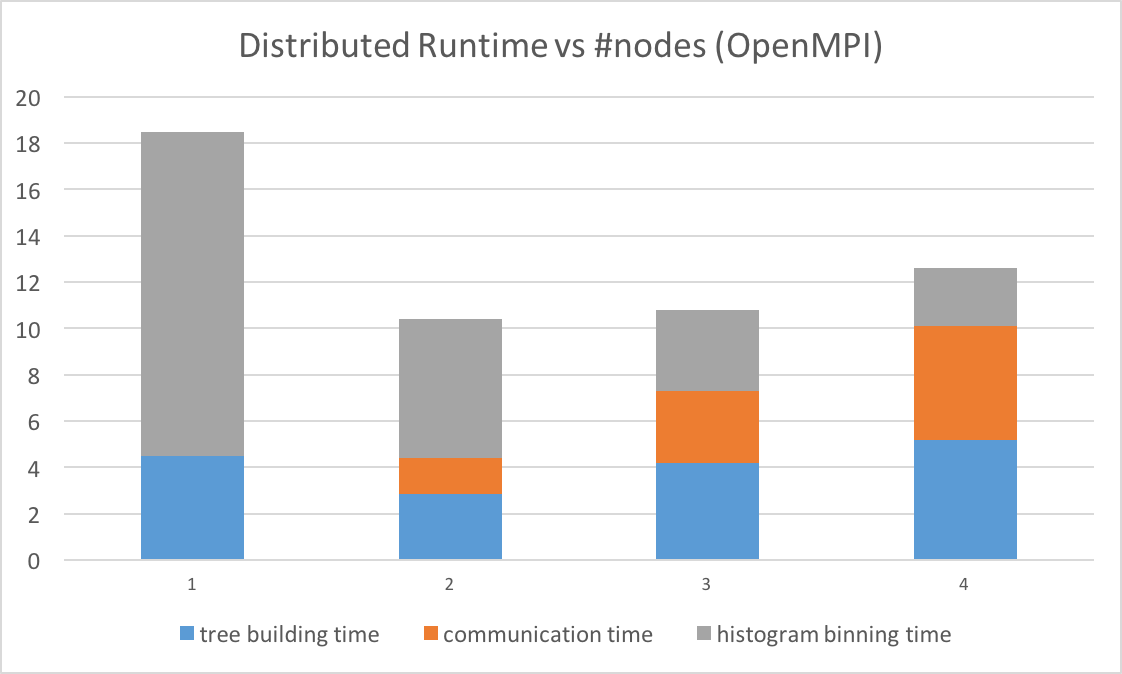
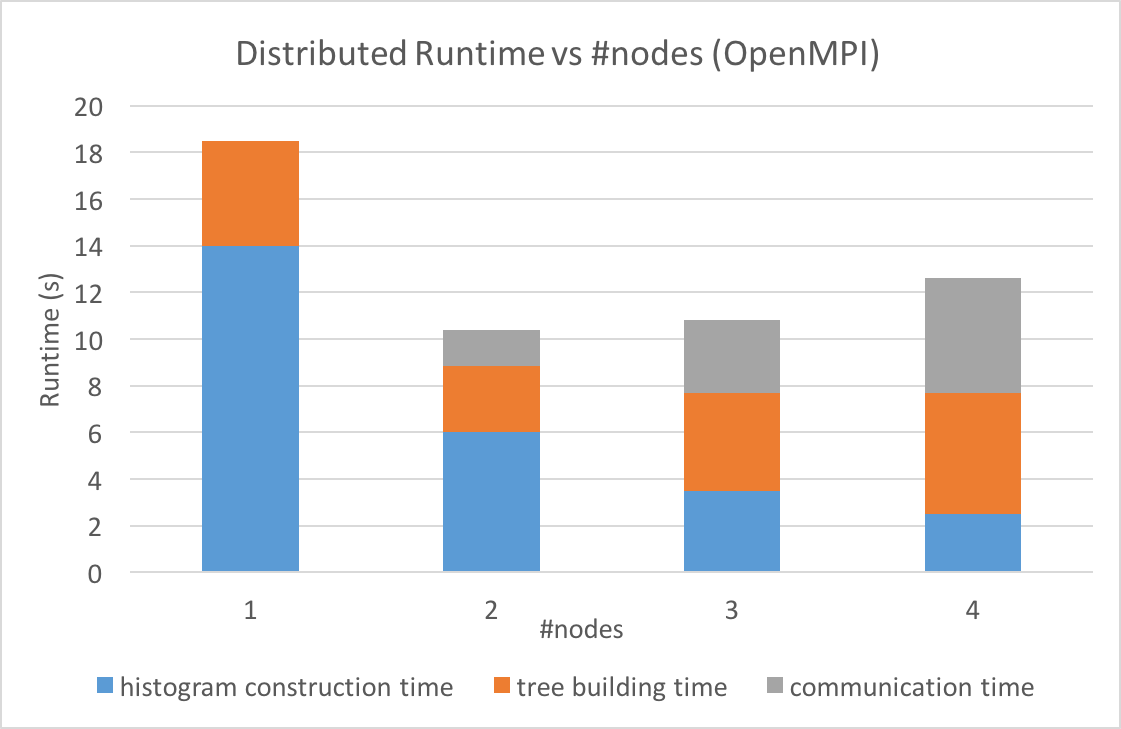
add and improve plots

diff --git a/index.md b/index.md
@@ -12,8 +12,6 @@ Rui Peng (ruip@andrew.cmu.edu)
 * [link to checkpoint](checkpoint.html)
 
 
-## WORK IN PROGRESS STILL
-
 ## Summary
 
 Decision tree learning is one of the most popular supervised classification
@@ -24,6 +22,10 @@ Our hybrid, single machine implementation on GHC achieves 8 second training
 time for a [dataset](https://archive.ics.uci.edu/ml/datasets/HIGGS) with over 11 million samples, which is
 **60 times faster** than sci-kit learn and **24 times faster** than our optimized
 sequential version, with similar accuracy.
+
+
+![Summary](assets/runtime-summary.png)
+
 
 ## Challenges
 
@@ -133,7 +135,7 @@ million (query,url) pairs, each with 136 features and a label denoting
 the relevance of the query to the url.
 
 
-![OpenMP](assets/runtime-openmp.png)
+![Sequential](assets/runtime-sequential.png)
 
 
 Our final sequential version observes massive improvements over both sci-kit learn and
@@ -162,7 +164,9 @@ histograms and constructing child histograms requires scanning over
 the distributions of every histogram bin of every feature, this leads to a
 roughly balanced workload. The speedup graphs are shown below.
 
-Explain speedup graphs here.
+
+![OpenMP](assets/runtime-openmp.png)
+
 
 The speedup graph above at first displays near-linear speedup, especially for
 histogram construction across different features. The eventual
@@ -217,27 +221,28 @@ algorithm: build the initial histograms using multi-threaded CPU, and
 use both the GPU and CPU to accelerate child histogram computation (pseudo-code
 below):
 
-```
+<pre>
 gpu_features = get_gpu_features(features)
 cpu_features = get_cpu_features(features)
 gpu_result = []
 cpu_result = []
 
-gpu_compute_histograms(gpu_features, gpu_result)<<<kernel params>>>
+// Asynchronously compute on gpu
+kernel_gpu_compute_histograms(gpu_features, gpu_result)
 
-// Asynchronously compute on cpu.
 cpu_compute_histograms(cpu_features, cpu_result)
 
 cudaThreadSynchronize()
 
 merge_results(gpu_result, cpu_result)
-```
+</pre>
 
 
 Since the speedup graph for CPU suggests that our algorithm may be bandwidth
 bound, an implementation that uses both the memory bandwidth of GPU and CPU will
 likely be faster. Initial results show that hybrid reduces tree building time by 20%
-over GPU only when running on the [HIGGS Data Set](https://archive.ics.uci.edu/ml/datasets/HIGGS), which has 11 million samples. Both the GPU only and hybrid only implementation
+over GPU only when running on the [HIGGS Data Set](https://archive.ics.uci.edu/ml/datasets/HIGGS),
+which has 11 million samples. Both the GPU only and hybrid only implementation
 are improvmenets over a multi-core CPU implementation with 16 threads.
 We are working on optimizing this further with a better scheduling strategy.
 
@@ -252,7 +257,7 @@ We have two main goals to focus on:
    advantages of hybrid scheduling. Specifically, we are planning to reduce
    the memory movement between host and device that occurs when training.
 2. Improve the communication efficiency of our distributed implementation. We
-   found a
-   [paper](https://www.google.com/search?q=communication+efficient+decision+tree+learning&oq=communication+efficient+decision+tree+learning&aqs=chrome..69i57j69i60j0.4052j0j4&sourceid=chrome&ie=UTF-8) recently published at NIPS that will help us in this regard.
+   found a [paper](https://arxiv.org/abs/1611.01276) recently published at
+   NIPS that will help us in this regard.
    We hope that implementing their idea will allow us to scale beyond two
    machines.
